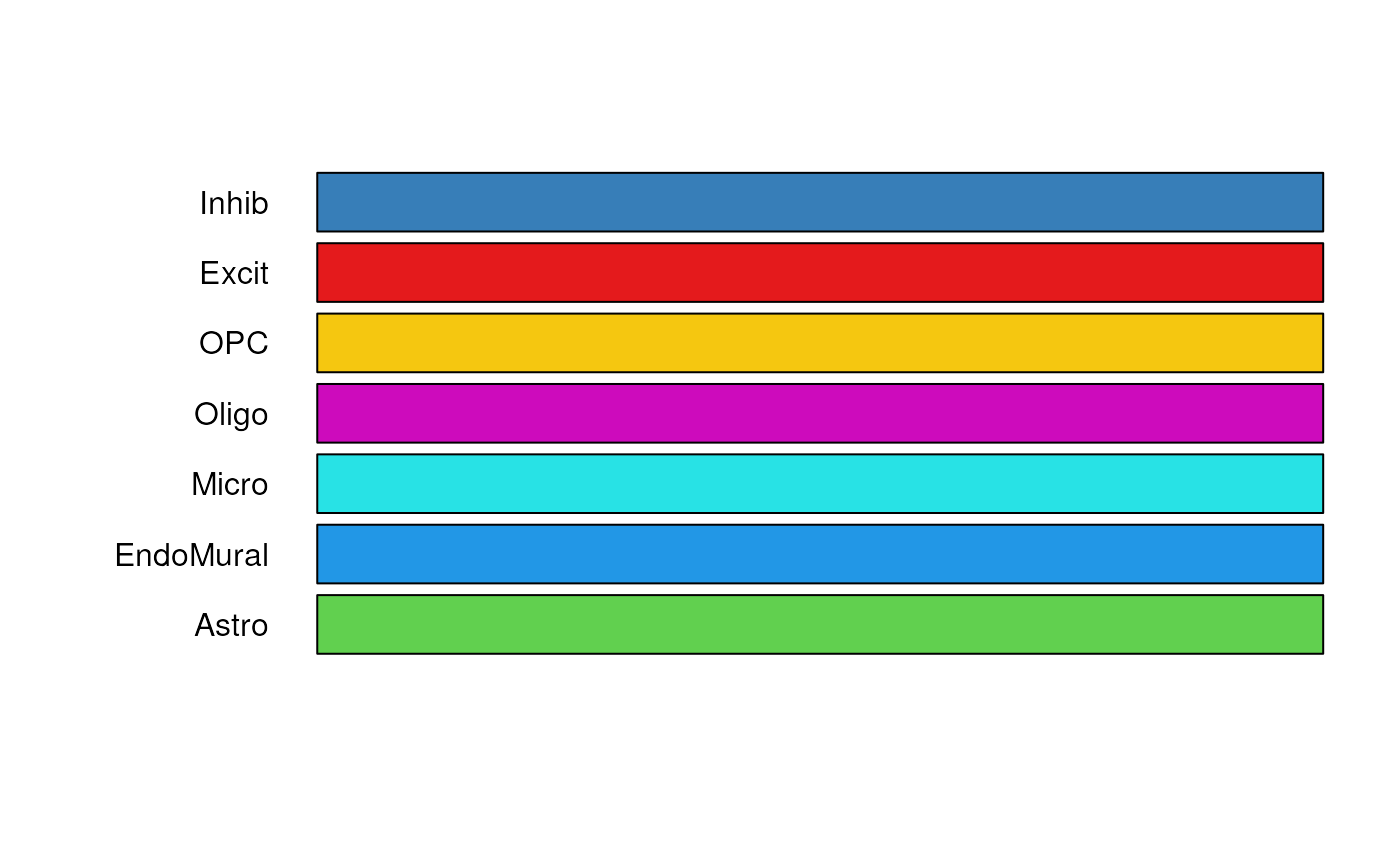
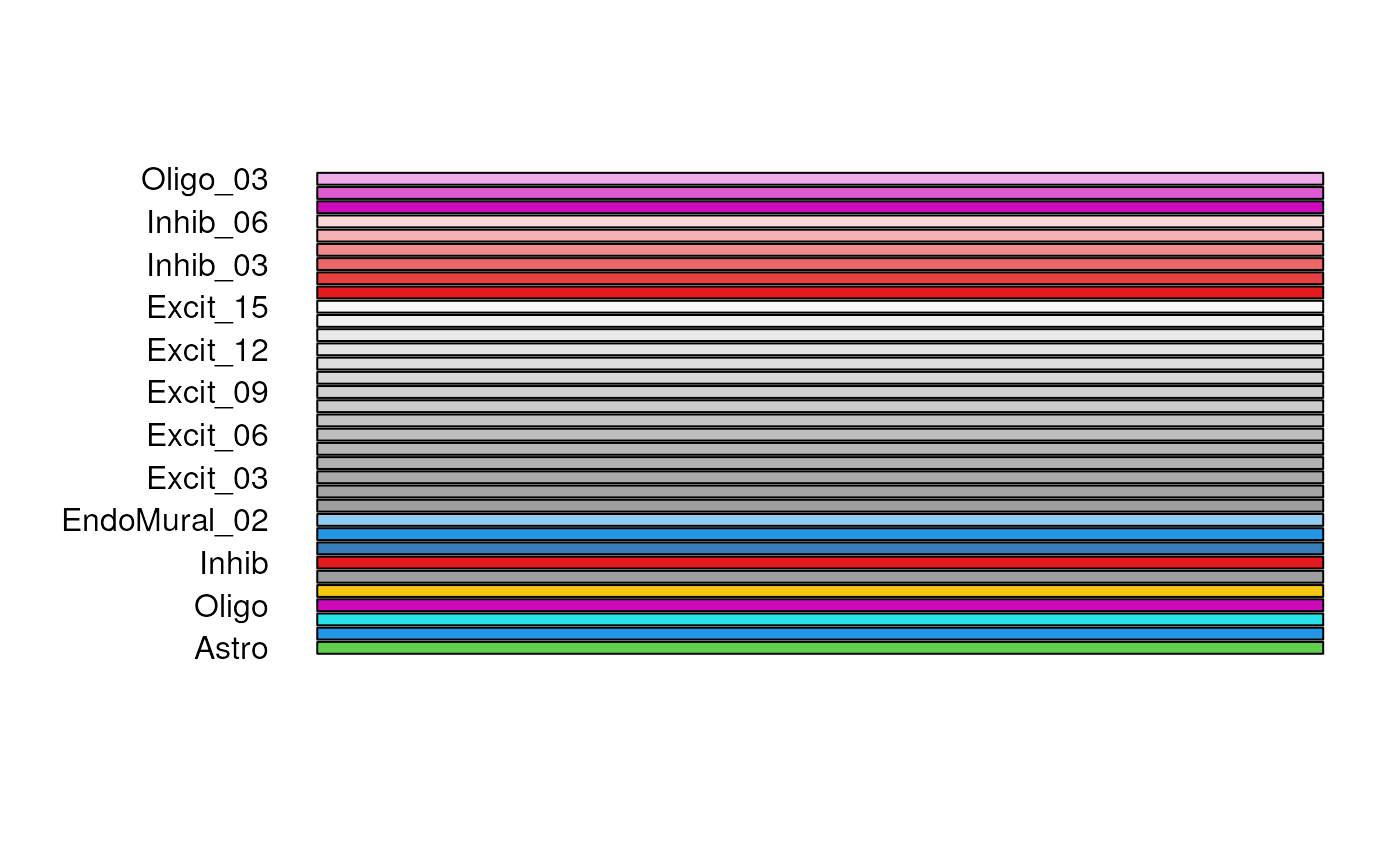
Deploying to gh-pages from @ LieberInstitute/DeconvoBuddies@7eb1b4eab2e5a7b147b6914d630d3a1765fab6ba 🚀

diff --git a/articles/DeconvoBuddies.html b/articles/DeconvoBuddies.html
@@ -211,20 +211,46 @@ the Human DLPFC (Huuki-Myers, Montgomery, Kwon, Cinquemani, Eagles,
 Gonzalez-Padilla, Maden, Kleinman, Hyde, Hicks, Maynard, and
 Collado-Torres, 2024).</p>
 <ul>
-<li><p><code>rse_gene</code>: 110 samples of bulk RNA-seq. [21745 genes
-x 110 samples].</p></li>
-<li><p><code>sce</code> : snRNA-seq data from the Human DLPFC.</p></li>
+<li><p><code>rse_gene</code>: 110 samples of bulk RNA-seq. [110 bulk
+RNA-seq samples x 21k genes] (41 MB).</p></li>
+<li><p><code>sce</code> : snRNA-seq data from the Human DLPFC. [77k
+nuclei x 36k genes] (172 MB)</p></li>
 <li><p><code>sce_DLPFC_example</code>: Sub-set of <code>sce</code>
-useful for testing. [557 genes x 10000 nuclei]</p></li>
+useful for testing. [10k nuclei x 557 genes] (49 MB)</p></li>
 </ul>
 <div class="sourceCode" id="cb4"><pre class="downlit sourceCode r">
-<code class="sourceCode R"><span><span class="co">## Single cell example data</span></span>
+<code class="sourceCode R"><span><span class="co">## Access and explore Single cell example data</span></span>
 <span><span class="kw">if</span> <span class="op">(</span><span class="op">!</span><span class="fu"><a href="https://rdrr.io/r/base/exists.html" class="external-link">exists</a></span><span class="op">(</span><span class="st">"sce_DLPFC_example"</span><span class="op">)</span><span class="op">)</span> <span class="va">sce_DLPFC_example</span> <span class="op">&lt;-</span> <span class="fu"><a href="../reference/fetch_deconvo_data.html">fetch_deconvo_data</a></span><span class="op">(</span><span class="st">"sce_DLPFC_example"</span><span class="op">)</span></span>
-<span><span class="co">#&gt; 2024-08-06 19:56:34.602448 loading file /github/home/.cache/R/BiocFileCache/3f715646e52_sce_DLPFC_example.Rdata%3Frlkey%3Dv3z4u8ru0d2y12zgdl1az07q9%26st%3D1dcfqc1i%26dl%3D1</span></span>
+<span><span class="co">#&gt; 2024-08-06 21:48:39.671245 loading file /github/home/.cache/R/BiocFileCache/3f6388747d_sce_DLPFC_example.Rdata%3Frlkey%3Dv3z4u8ru0d2y12zgdl1az07q9%26st%3D1dcfqc1i%26dl%3D1</span></span>
+<span><span class="va">sce_DLPFC_example</span></span>
+<span><span class="co">#&gt; class: SingleCellExperiment </span></span>
+<span><span class="co">#&gt; dim: 557 10000 </span></span>
+<span><span class="co">#&gt; metadata(3): Samples cell_type_colors cell_type_colors_broad</span></span>
+<span><span class="co">#&gt; assays(1): logcounts</span></span>
+<span><span class="co">#&gt; rownames(557): GABRD PRDM16 ... AFF2 MAMLD1</span></span>
+<span><span class="co">#&gt; rowData names(7): source type ... gene_type binomial_deviance</span></span>
+<span><span class="co">#&gt; colnames(10000): 8_AGTGACTGTAGTTACC-1 17_GCAGCCAGTGAGTCAG-1 ...</span></span>
+<span><span class="co">#&gt;   12_GGACGTCTCTGACAGT-1 1_GGTTAACTCTCTCTAA-1</span></span>
+<span><span class="co">#&gt; colData names(32): Sample Barcode ... cellType_layer layer_annotation</span></span>
+<span><span class="co">#&gt; reducedDimNames(0):</span></span>
+<span><span class="co">#&gt; mainExpName: NULL</span></span>
+<span><span class="co">#&gt; altExpNames(0):</span></span>
 <span></span>
-<span><span class="co">## Bulk RNA-seq data</span></span>
+<span><span class="co">## Access and explore Bulk RNA-seq data</span></span>
 <span><span class="kw">if</span> <span class="op">(</span><span class="op">!</span><span class="fu"><a href="https://rdrr.io/r/base/exists.html" class="external-link">exists</a></span><span class="op">(</span><span class="st">"rse_gene"</span><span class="op">)</span><span class="op">)</span> <span class="va">rse_gene</span> <span class="op">&lt;-</span> <span class="fu"><a href="../reference/fetch_deconvo_data.html">fetch_deconvo_data</a></span><span class="op">(</span><span class="st">"rse_gene"</span><span class="op">)</span></span>
-<span><span class="co">#&gt; 2024-08-06 19:56:36.568963 loading file /github/home/.cache/R/BiocFileCache/3f75afdd7e1_rse_gene.Rdata%3Frlkey%3Dsw2djr71y954yw4o3xrmjv59b%26dl%3D1</span></span></code></pre></div>
+<span><span class="co">#&gt; 2024-08-06 21:48:41.489403 loading file /github/home/.cache/R/BiocFileCache/3f619c595d4_rse_gene.Rdata%3Frlkey%3Dsw2djr71y954yw4o3xrmjv59b%26dl%3D1</span></span>
+<span><span class="va">rse_gene</span></span>
+<span><span class="co">#&gt; class: RangedSummarizedExperiment </span></span>
+<span><span class="co">#&gt; dim: 21745 110 </span></span>
+<span><span class="co">#&gt; metadata(1): SPEAQeasy_settings</span></span>
+<span><span class="co">#&gt; assays(2): counts logcounts</span></span>
+<span><span class="co">#&gt; rownames(21745): ENSG00000227232.5 ENSG00000278267.1 ...</span></span>
+<span><span class="co">#&gt;   ENSG00000210195.2 ENSG00000210196.2</span></span>
+<span><span class="co">#&gt; rowData names(11): Length gencodeID ... gencodeTx passExprsCut</span></span>
+<span><span class="co">#&gt; colnames(110): 2107UNHS-0291_Br2720_Mid_Bulk</span></span>
+<span><span class="co">#&gt;   2107UNHS-0291_Br2720_Mid_Cyto ... AN00000906_Br8667_Mid_Cyto</span></span>
+<span><span class="co">#&gt;   AN00000906_Br8667_Mid_Nuc</span></span>
+<span><span class="co">#&gt; colData names(80): SAMPLE_ID Sample ... diagnosis qc_class</span></span></code></pre></div>
 </div>
 <div class="section level3">
 <h3 id="marker-finding">Marker Finding<a class="anchor" aria-label="anchor" href="#marker-finding"></a>
@@ -240,7 +266,13 @@ type, where
 These values can be calculated for a single cell RNA-seq dataset using
 <code>get_mean_ratio2()</code>.</p>
 <div class="sourceCode" id="cb5"><pre class="downlit sourceCode r">
-<code class="sourceCode R"><span><span class="va">marker_stats</span> <span class="op">&lt;-</span> <span class="fu"><a href="../reference/get_mean_ratio.html">get_mean_ratio</a></span><span class="op">(</span><span class="va">sce_DLPFC_example</span>, cellType_col <span class="op">=</span> <span class="st">"cellType_broad_hc"</span>, gene_name <span class="op">=</span> <span class="st">"gene_name"</span>, gene_ensembl <span class="op">=</span> <span class="st">"gene_id"</span><span class="op">)</span></span>
+<code class="sourceCode R"><span><span class="co">## find marker genes with get_mean_ratio</span></span>
+<span><span class="va">marker_stats</span> <span class="op">&lt;-</span> <span class="fu"><a href="../reference/get_mean_ratio.html">get_mean_ratio</a></span><span class="op">(</span><span class="va">sce_DLPFC_example</span>,</span>
+<span>                               cellType_col <span class="op">=</span> <span class="st">"cellType_broad_hc"</span>, </span>
+<span>                               gene_name <span class="op">=</span> <span class="st">"gene_name"</span>, </span>
+<span>                               gene_ensembl <span class="op">=</span> <span class="st">"gene_id"</span><span class="op">)</span></span>
+<span></span>
+<span><span class="co">## explore tibble output, gene with high MeanRatio values are good marker genes</span></span>
 <span><span class="va">marker_stats</span></span>
 <span><span class="co">#&gt; <span style="color: #949494;"># A tibble: 762 × 10</span></span></span>
 <span><span class="co">#&gt;    gene       cellType.target mean.target cellType.2nd mean.2nd MeanRatio</span></span>
@@ -272,12 +304,15 @@ different plots. The function <code><a href="../reference/create_cell_colors.htm
 a named vector of hex values, corresponding to the names of cell types.
 This list is compatible with functions like
 <code><a href="https://ggplot2.tidyverse.org/reference/scale_manual.html" class="external-link">ggplot2::scale_color_manual()</a></code>.</p>
-<p>There are three pallets to choose from to generate colors:<br>
-* “classic” (default): Set1 from <code>RColorBrewer</code> - max 9
-colors<br>
-* “gg”: Equi-distant hues, same process for selecting colors as
-<code>ggplot</code> - no maximum number<br>
-* “tableau”: tableau20 color set (TODO cite this) - max 20 colors</p>
+<p>There are three pallets to choose from to generate colors:</p>
+<ul>
+<li><p>“classic” (default): Set1 from <code>RColorBrewer</code> - max 9
+colors</p></li>
+<li><p>“gg”: Equi-distant hues, same process for selecting colors as
+<code>ggplot</code> - no maximum number</p></li>
+<li><p>“tableau”: tableau20 color set (TODO cite this) - max 20
+colors</p></li>
+</ul>
 <div class="sourceCode" id="cb6"><pre class="downlit sourceCode r">
 <code class="sourceCode R"><span><span class="va">test_cell_types</span> <span class="op">&lt;-</span> <span class="fu"><a href="https://rdrr.io/r/base/c.html" class="external-link">c</a></span><span class="op">(</span><span class="st">"cell_A"</span>, <span class="st">"cell_B"</span>, <span class="st">"cell_C"</span>, <span class="st">"cell_D"</span>, <span class="st">"cell_E"</span><span class="op">)</span></span>
 <span></span>
@@ -299,12 +334,12 @@ colors<br>
 helps expand on the maximum number of colors and makes your pallet
 flexible when considering different ‘resolutions’ of cell types.</p>
 <div class="sourceCode" id="cb10"><pre class="downlit sourceCode r">
-<code class="sourceCode R"><span><span class="va">my_cell_types</span> <span class="op">&lt;-</span> <span class="fu"><a href="https://rdrr.io/r/base/levels.html" class="external-link">levels</a></span><span class="op">(</span><span class="va">sce_DLPFC_example</span><span class="op">$</span><span class="va">cellType_broad_hc</span><span class="op">)</span></span>
+<code class="sourceCode R"><span><span class="va">my_cell_types</span> <span class="op">&lt;-</span> <span class="fu"><a href="https://rdrr.io/r/base/levels.html" class="external-link">levels</a></span><span class="op">(</span><span class="va">sce_DLPFC_example</span><span class="op">$</span><span class="va">cellType_hc</span><span class="op">)</span></span>
 <span><span class="va">my_cell_colors</span> <span class="op">&lt;-</span> <span class="fu"><a href="../reference/create_cell_colors.html">create_cell_colors</a></span><span class="op">(</span></span>
 <span>    cell_types <span class="op">=</span> <span class="va">my_cell_types</span>,</span>
 <span>    pallet <span class="op">=</span> <span class="st">"classic"</span>,</span>
 <span>    preview <span class="op">=</span> <span class="cn">TRUE</span>,</span>
-<span>    split <span class="op">=</span> <span class="st">"\\."</span></span>
+<span>    split <span class="op">=</span> <span class="st">"_"</span></span>
 <span><span class="op">)</span></span></code></pre></div>
 <p><img src="DeconvoBuddies_files/figure-html/create_cell_colors%20demo%202%60-1.png" width="700"></p>
 </div>
@@ -337,16 +372,18 @@ violin plots of expression over cell type.</p>
 <p>Visualize deconvolution results with a stacked barplot showing the
 average cell type proportion for a group.</p>
 <div class="sourceCode" id="cb12"><pre class="downlit sourceCode r">
-<code class="sourceCode R"><span><span class="va">pd</span> <span class="op">&lt;-</span> <span class="fu"><a href="https://rdrr.io/pkg/SummarizedExperiment/man/SummarizedExperiment-class.html" class="external-link">colData</a></span><span class="op">(</span><span class="va">rse_bulk_test</span><span class="op">)</span> <span class="op">|&gt;</span></span>
+<code class="sourceCode R"><span><span class="co"># access the colData of a test rse dataset</span></span>
+<span><span class="va">pd</span> <span class="op">&lt;-</span> <span class="fu"><a href="https://rdrr.io/pkg/SummarizedExperiment/man/SummarizedExperiment-class.html" class="external-link">colData</a></span><span class="op">(</span><span class="va">rse_bulk_test</span><span class="op">)</span> <span class="op">|&gt;</span></span>
 <span>    <span class="fu"><a href="https://rdrr.io/r/base/as.data.frame.html" class="external-link">as.data.frame</a></span><span class="op">(</span><span class="op">)</span></span>
 <span></span>
-<span><span class="co">## need to pivot data to long format</span></span>
+<span><span class="co">## pivot data to long format and join with test estimated proportion data</span></span>
 <span><span class="va">est_prop_long</span> <span class="op">&lt;-</span> <span class="va">est_prop</span> <span class="op">|&gt;</span></span>
 <span>    <span class="fu"><a href="https://tibble.tidyverse.org/reference/rownames.html" class="external-link">rownames_to_column</a></span><span class="op">(</span><span class="st">"RNum"</span><span class="op">)</span> <span class="op">|&gt;</span></span>
 <span>    <span class="fu"><a href="https://tidyr.tidyverse.org/reference/pivot_longer.html" class="external-link">pivot_longer</a></span><span class="op">(</span><span class="op">!</span><span class="va">RNum</span>, names_to <span class="op">=</span> <span class="st">"cell_type"</span>, values_to <span class="op">=</span> <span class="st">"prop"</span><span class="op">)</span> <span class="op">|&gt;</span></span>
 <span>    <span class="fu"><a href="https://dplyr.tidyverse.org/reference/mutate-joins.html" class="external-link">left_join</a></span><span class="op">(</span><span class="va">pd</span> <span class="op">|&gt;</span> <span class="fu">dplyr</span><span class="fu">::</span><span class="fu"><a href="https://dplyr.tidyverse.org/reference/select.html" class="external-link">select</a></span><span class="op">(</span><span class="va">RNum</span>, <span class="va">Dx</span><span class="op">)</span><span class="op">)</span></span>
 <span><span class="co">#&gt; Joining with `by = join_by(RNum)`</span></span>
 <span></span>
+<span><span class="co">## explore est_prop_long</span></span>
 <span><span class="va">est_prop_long</span></span>
 <span><span class="co">#&gt; <span style="color: #949494;"># A tibble: 500 × 4</span></span></span>
 <span><span class="co">#&gt;    RNum  cell_type   prop Dx   </span></span>
@@ -363,6 +400,7 @@ average cell type proportion for a group.</p>
 <span><span class="co">#&gt; <span style="color: #BCBCBC;">10</span> R632  cell_E    0.060<span style="text-decoration: underline;">0</span> <span style="color: #BB0000;">NA</span>   </span></span>
 <span><span class="co">#&gt; <span style="color: #949494;"># ℹ 490 more rows</span></span></span>
 <span></span>
+<span><span class="co">## the composition bar plot shows the average cell type composition for each Dx</span></span>
 <span><span class="fu"><a href="../reference/plot_composition_bar.html">plot_composition_bar</a></span><span class="op">(</span><span class="va">est_prop_long</span>, x_col <span class="op">=</span> <span class="st">"Dx"</span><span class="op">)</span> <span class="op">+</span></span>
 <span>    <span class="fu">ggplot2</span><span class="fu">::</span><span class="fu"><a href="https://ggplot2.tidyverse.org/reference/scale_manual.html" class="external-link">scale_fill_manual</a></span><span class="op">(</span>values <span class="op">=</span> <span class="va">test_cell_colors_classic</span><span class="op">)</span></span></code></pre></div>
 <p><img src="DeconvoBuddies_files/figure-html/%60demo%20plot_composition_bar%60-1.png" width="700"></p>
@@ -408,9 +446,9 @@ Cheng, Chang, and Iannone, 2024)</li>
 <span><span class="kw"><a href="https://rdrr.io/r/base/library.html" class="external-link">library</a></span><span class="op">(</span><span class="st"><a href="https://yihui.org/knitr/" class="external-link">"knitr"</a></span><span class="op">)</span></span>
 <span><span class="fu"><a href="https://rdrr.io/pkg/knitr/man/knit.html" class="external-link">knit</a></span><span class="op">(</span><span class="st">"DeconvoBuddies.Rmd"</span>, tangle <span class="op">=</span> <span class="cn">TRUE</span><span class="op">)</span></span></code></pre></div>
 <p>Date the vignette was generated.</p>
-<pre><code><span><span class="co">#&gt; [1] "2024-08-06 19:56:40 UTC"</span></span></code></pre>
+<pre><code><span><span class="co">#&gt; [1] "2024-08-06 21:48:45 UTC"</span></span></code></pre>
 <p>Wallclock time spent generating the vignette.</p>
-<pre><code><span><span class="co">#&gt; Time difference of 18.203 secs</span></span></code></pre>
+<pre><code><span><span class="co">#&gt; Time difference of 18.286 secs</span></span></code></pre>
 <p><code>R</code> session information.</p>
 <pre><code><span><span class="co">#&gt; <span style="color: #00BBBB; font-weight: bold;">─ Session info ───────────────────────────────────────────────────────────────────────────────────────────────────────</span></span></span>
 <span><span class="co">#&gt;  <span style="color: #555555; font-style: italic;">setting </span> <span style="color: #555555; font-style: italic;">value</span></span></span>

diff --git a/articles/Deconvolution_Benchmark_DLPFC.html b/articles/Deconvolution_Benchmark_DLPFC.html
@@ -261,7 +261,7 @@ Total, Nuc), post quality control n=110 samples.</p>
 <div class="sourceCode" id="cb3"><pre class="downlit sourceCode r">
 <code class="sourceCode R"><span><span class="co">## use fetch deconvon data to load rse_gene</span></span>
 <span><span class="va">rse_gene</span> <span class="op">&lt;-</span> <span class="fu"><a href="../reference/fetch_deconvo_data.html">fetch_deconvo_data</a></span><span class="op">(</span><span class="st">"rse_gene"</span><span class="op">)</span></span>
-<span><span class="co">#&gt; 2024-08-06 19:56:56.852831 loading file /github/home/.cache/R/BiocFileCache/3f75afdd7e1_rse_gene.Rdata%3Frlkey%3Dsw2djr71y954yw4o3xrmjv59b%26dl%3D1</span></span>
+<span><span class="co">#&gt; 2024-08-06 21:49:01.191113 loading file /github/home/.cache/R/BiocFileCache/3f619c595d4_rse_gene.Rdata%3Frlkey%3Dsw2djr71y954yw4o3xrmjv59b%26dl%3D1</span></span>
 <span><span class="va">rse_gene</span></span>
 <span><span class="co">#&gt; class: RangedSummarizedExperiment </span></span>
 <span><span class="co">#&gt; dim: 21745 110 </span></span>
@@ -297,7 +297,7 @@ Total, Nuc), post quality control n=110 samples.</p>
 <div class="sourceCode" id="cb4"><pre class="downlit sourceCode r">
 <code class="sourceCode R"><span><span class="co">## Use spatialLIBD to fetch the snRNA-seq dataset</span></span>
 <span><span class="va">sce_path_zip</span> <span class="op">&lt;-</span> <span class="fu"><a href="../reference/fetch_deconvo_data.html">fetch_deconvo_data</a></span><span class="op">(</span><span class="st">"sce"</span><span class="op">)</span></span>
-<span><span class="co">#&gt; 2024-08-06 19:56:59.166346 loading file /github/home/.cache/R/BiocFileCache/3f721f411_sce_DLPFC_annotated.zip%3Fdl%3D1</span></span>
+<span><span class="co">#&gt; 2024-08-06 21:49:03.778689 loading file /github/home/.cache/R/BiocFileCache/3f673eb669d_sce_DLPFC_annotated.zip%3Fdl%3D1</span></span>
 <span></span>
 <span><span class="co">## unzip and load the data</span></span>
 <span><span class="va">sce_path</span> <span class="op">&lt;-</span> <span class="fu"><a href="https://rdrr.io/r/utils/unzip.html" class="external-link">unzip</a></span><span class="op">(</span><span class="va">sce_path_zip</span>, exdir <span class="op">=</span> <span class="fu"><a href="https://rdrr.io/r/base/tempfile.html" class="external-link">tempdir</a></span><span class="op">(</span><span class="op">)</span><span class="op">)</span></span>
@@ -762,9 +762,9 @@ Cheng, Chang, and Iannone, 2024)</li>
 <span><span class="kw"><a href="https://rdrr.io/r/base/library.html" class="external-link">library</a></span><span class="op">(</span><span class="st"><a href="https://yihui.org/knitr/" class="external-link">"knitr"</a></span><span class="op">)</span></span>
 <span><span class="fu"><a href="https://rdrr.io/pkg/knitr/man/knit.html" class="external-link">knit</a></span><span class="op">(</span><span class="st">"Deconvolution_Benchmark_DLPFC.Rmd"</span>, tangle <span class="op">=</span> <span class="cn">TRUE</span><span class="op">)</span></span></code></pre></div>
 <p>Date the vignette was generated.</p>
-<pre><code><span><span class="co">#&gt; [1] "2024-08-06 19:57:56 UTC"</span></span></code></pre>
+<pre><code><span><span class="co">#&gt; [1] "2024-08-06 21:50:05 UTC"</span></span></code></pre>
 <p>Wallclock time spent generating the vignette.</p>
-<pre><code><span><span class="co">#&gt; Time difference of 1.197 mins</span></span></code></pre>
+<pre><code><span><span class="co">#&gt; Time difference of 1.277 mins</span></span></code></pre>
 <p><code>R</code> session information.</p>
 <pre><code><span><span class="co">#&gt; <span style="color: #00BBBB; font-weight: bold;">─ Session info ───────────────────────────────────────────────────────────────────────────────────────────────────────</span></span></span>
 <span><span class="co">#&gt;  <span style="color: #555555; font-style: italic;">setting </span> <span style="color: #555555; font-style: italic;">value</span></span></span>

diff --git a/reference/fetch_deconvo_data.html b/reference/fetch_deconvo_data.html
@@ -132,7 +132,7 @@ the preferred way to interact with the data.</p>
 <span class="r-in"><span><span class="co">## A RangedSummarizedExperiment (41.16 MB)</span></span></span>
 <span class="r-in"><span></span></span>
 <span class="r-in"><span><span class="kw">if</span> <span class="op">(</span><span class="op">!</span><span class="fu"><a href="https://rdrr.io/r/base/exists.html" class="external-link">exists</a></span><span class="op">(</span><span class="st">"rse-gene"</span><span class="op">)</span><span class="op">)</span> <span class="va">rse_gene</span> <span class="op">&lt;-</span> <span class="fu">fetch_deconvo_data</span><span class="op">(</span><span class="st">"rse_gene"</span><span class="op">)</span></span></span>
-<span class="r-msg co"><span class="r-pr">#&gt;</span> 2024-08-06 19:55:43.549969 loading file /github/home/.cache/R/BiocFileCache/3f75afdd7e1_rse_gene.Rdata%3Frlkey%3Dsw2djr71y954yw4o3xrmjv59b%26dl%3D1</span>
+<span class="r-msg co"><span class="r-pr">#&gt;</span> 2024-08-06 21:47:50.593281 loading file /github/home/.cache/R/BiocFileCache/3f619c595d4_rse_gene.Rdata%3Frlkey%3Dsw2djr71y954yw4o3xrmjv59b%26dl%3D1</span>
 <span class="r-in"><span></span></span>
 <span class="r-in"><span><span class="co">## explore data</span></span></span>
 <span class="r-in"><span><span class="va">rse_gene</span></span></span>
@@ -160,7 +160,7 @@ the preferred way to interact with the data.</p>
 <span class="r-in"><span><span class="co">## load example snRNA-seq data</span></span></span>
 <span class="r-in"><span><span class="co">## A SingleCellExperiment (4.79 MB)</span></span></span>
 <span class="r-in"><span><span class="kw">if</span> <span class="op">(</span><span class="op">!</span><span class="fu"><a href="https://rdrr.io/r/base/exists.html" class="external-link">exists</a></span><span class="op">(</span><span class="st">"sce_DLPFC_example"</span><span class="op">)</span><span class="op">)</span> <span class="va">sce_DLPFC_example</span> <span class="op">&lt;-</span> <span class="fu">fetch_deconvo_data</span><span class="op">(</span><span class="st">"sce_DLPFC_example"</span><span class="op">)</span></span></span>
-<span class="r-msg co"><span class="r-pr">#&gt;</span> 2024-08-06 19:55:44.874238 loading file /github/home/.cache/R/BiocFileCache/3f715646e52_sce_DLPFC_example.Rdata%3Frlkey%3Dv3z4u8ru0d2y12zgdl1az07q9%26st%3D1dcfqc1i%26dl%3D1</span>
+<span class="r-msg co"><span class="r-pr">#&gt;</span> 2024-08-06 21:47:51.618848 loading file /github/home/.cache/R/BiocFileCache/3f6388747d_sce_DLPFC_example.Rdata%3Frlkey%3Dv3z4u8ru0d2y12zgdl1az07q9%26st%3D1dcfqc1i%26dl%3D1</span>
 <span class="r-in"><span></span></span>
 <span class="r-in"><span></span></span>
 <span class="r-in"><span><span class="va">sce_DLPFC_example</span></span></span>

diff --git a/reference/plot_marker_express_List.html b/reference/plot_marker_express_List.html
@@ -134,7 +134,7 @@ defaults to <code>FALSE</code> as these often become over plotted and quite larg
     <h2>Examples</h2>
     <div class="sourceCode"><pre class="sourceCode r"><code><span class="r-in"><span><span class="co">## Fetch sce example data</span></span></span>
 <span class="r-in"><span><span class="kw">if</span> <span class="op">(</span><span class="op">!</span><span class="fu"><a href="https://rdrr.io/r/base/exists.html" class="external-link">exists</a></span><span class="op">(</span><span class="st">"sce_DLPFC_example"</span><span class="op">)</span><span class="op">)</span> <span class="va">sce_DLPFC_example</span> <span class="op">&lt;-</span> <span class="fu"><a href="fetch_deconvo_data.html">fetch_deconvo_data</a></span><span class="op">(</span><span class="st">"sce_DLPFC_example"</span><span class="op">)</span></span></span>
-<span class="r-msg co"><span class="r-pr">#&gt;</span> 2024-08-06 19:56:18.158438 loading file /github/home/.cache/R/BiocFileCache/3f715646e52_sce_DLPFC_example.Rdata%3Frlkey%3Dv3z4u8ru0d2y12zgdl1az07q9%26st%3D1dcfqc1i%26dl%3D1</span>
+<span class="r-msg co"><span class="r-pr">#&gt;</span> 2024-08-06 21:48:23.642591 loading file /github/home/.cache/R/BiocFileCache/3f6388747d_sce_DLPFC_example.Rdata%3Frlkey%3Dv3z4u8ru0d2y12zgdl1az07q9%26st%3D1dcfqc1i%26dl%3D1</span>
 <span class="r-in"><span></span></span>
 <span class="r-in"><span><span class="co">## Create list-of-lists of genes to plot, names of sub-list become title of page</span></span></span>
 <span class="r-in"><span><span class="va">my_gene_list</span> <span class="op">&lt;-</span> <span class="fu"><a href="https://rdrr.io/r/base/list.html" class="external-link">list</a></span><span class="op">(</span>Inhib <span class="op">=</span> <span class="fu"><a href="https://rdrr.io/r/base/c.html" class="external-link">c</a></span><span class="op">(</span><span class="st">"GAD2"</span>, <span class="st">"SAMD5"</span><span class="op">)</span>, Astro <span class="op">=</span> <span class="fu"><a href="https://rdrr.io/r/base/c.html" class="external-link">c</a></span><span class="op">(</span><span class="st">"RGS20"</span>, <span class="st">"PRDM16"</span><span class="op">)</span><span class="op">)</span></span></span>

diff --git a/reference/plot_gene_express.html b/reference/plot_gene_express.html
@@ -144,7 +144,7 @@ defaults to <code>FALSE</code> as these often become over plotted and quite larg
 <span class="r-plt img"><img src="plot_gene_express-1.png" alt="" width="700" height="433"></span>
 <span class="r-in"><span></span></span>
 <span class="r-in"><span><span class="kw">if</span> <span class="op">(</span><span class="op">!</span><span class="fu"><a href="https://rdrr.io/r/base/exists.html" class="external-link">exists</a></span><span class="op">(</span><span class="st">"sce_DLPFC_example"</span><span class="op">)</span><span class="op">)</span> <span class="va">sce_DLPFC_example</span> <span class="op">&lt;-</span> <span class="fu"><a href="fetch_deconvo_data.html">fetch_deconvo_data</a></span><span class="op">(</span><span class="st">"sce_DLPFC_example"</span><span class="op">)</span></span></span>
-<span class="r-msg co"><span class="r-pr">#&gt;</span> 2024-08-06 19:55:53.172213 loading file /github/home/.cache/R/BiocFileCache/3f715646e52_sce_DLPFC_example.Rdata%3Frlkey%3Dv3z4u8ru0d2y12zgdl1az07q9%26st%3D1dcfqc1i%26dl%3D1</span>
+<span class="r-msg co"><span class="r-pr">#&gt;</span> 2024-08-06 21:47:58.984649 loading file /github/home/.cache/R/BiocFileCache/3f6388747d_sce_DLPFC_example.Rdata%3Frlkey%3Dv3z4u8ru0d2y12zgdl1az07q9%26st%3D1dcfqc1i%26dl%3D1</span>
 <span class="r-in"><span><span class="co">## plot expression of two genes</span></span></span>
 <span class="r-in"><span><span class="fu">plot_gene_express</span><span class="op">(</span>sce <span class="op">=</span> <span class="va">sce_DLPFC_example</span>, category <span class="op">=</span> <span class="st">"cellType_broad_hc"</span>, genes <span class="op">=</span> <span class="fu"><a href="https://rdrr.io/r/base/c.html" class="external-link">c</a></span><span class="op">(</span><span class="st">"GAD2"</span>, <span class="st">"CD22"</span><span class="op">)</span><span class="op">)</span></span></span>
 <span class="r-msg co"><span class="r-pr">#&gt;</span> No summary function supplied, defaulting to `mean_se()`</span>

diff --git a/reference/plot_marker_express_ALL.html b/reference/plot_marker_express_ALL.html
@@ -153,7 +153,7 @@ all cell types</p>
     <h2>Examples</h2>
     <div class="sourceCode"><pre class="sourceCode r"><code><span class="r-in"><span><span class="co">#' ## Fetch sce example data</span></span></span>
 <span class="r-in"><span><span class="kw">if</span> <span class="op">(</span><span class="op">!</span><span class="fu"><a href="https://rdrr.io/r/base/exists.html" class="external-link">exists</a></span><span class="op">(</span><span class="st">"sce_DLPFC_example"</span><span class="op">)</span><span class="op">)</span> <span class="va">sce_DLPFC_example</span> <span class="op">&lt;-</span> <span class="fu"><a href="fetch_deconvo_data.html">fetch_deconvo_data</a></span><span class="op">(</span><span class="st">"sce_DLPFC_example"</span><span class="op">)</span></span></span>
-<span class="r-msg co"><span class="r-pr">#&gt;</span> 2024-08-06 19:56:00.774611 loading file /github/home/.cache/R/BiocFileCache/3f715646e52_sce_DLPFC_example.Rdata%3Frlkey%3Dv3z4u8ru0d2y12zgdl1az07q9%26st%3D1dcfqc1i%26dl%3D1</span>
+<span class="r-msg co"><span class="r-pr">#&gt;</span> 2024-08-06 21:48:06.334976 loading file /github/home/.cache/R/BiocFileCache/3f6388747d_sce_DLPFC_example.Rdata%3Frlkey%3Dv3z4u8ru0d2y12zgdl1az07q9%26st%3D1dcfqc1i%26dl%3D1</span>
 <span class="r-in"><span></span></span>
 <span class="r-in"><span><span class="co"># Plot marker gene expression to PDF, one page per cell type in stats</span></span></span>
 <span class="r-in"><span><span class="va">pdf_file</span> <span class="op">&lt;-</span> <span class="fu"><a href="https://rdrr.io/r/base/tempfile.html" class="external-link">tempfile</a></span><span class="op">(</span><span class="st">"test_marker_expression_ALL"</span>, fileext <span class="op">=</span> <span class="st">".pdf"</span><span class="op">)</span></span></span>

diff --git a/reference/dot-get_mean_ratio2.html b/reference/dot-get_mean_ratio2.html
@@ -117,7 +117,7 @@ it typically contains the normalized expression values.</p></dd>
     <h2>Examples</h2>
     <div class="sourceCode"><pre class="sourceCode r"><code><span class="r-in"><span><span class="co">#' ## load example SingleCellExperiment</span></span></span>
 <span class="r-in"><span><span class="kw">if</span> <span class="op">(</span><span class="op">!</span><span class="fu"><a href="https://rdrr.io/r/base/exists.html" class="external-link">exists</a></span><span class="op">(</span><span class="st">"sce_DLPFC_example"</span><span class="op">)</span><span class="op">)</span> <span class="va">sce_DLPFC_example</span> <span class="op">&lt;-</span> <span class="fu"><a href="fetch_deconvo_data.html">fetch_deconvo_data</a></span><span class="op">(</span><span class="st">"sce_DLPFC_example"</span><span class="op">)</span></span></span>
-<span class="r-msg co"><span class="r-pr">#&gt;</span> 2024-08-06 19:55:40.242888 loading file /github/home/.cache/R/BiocFileCache/3f715646e52_sce_DLPFC_example.Rdata%3Frlkey%3Dv3z4u8ru0d2y12zgdl1az07q9%26st%3D1dcfqc1i%26dl%3D1</span>
+<span class="r-msg co"><span class="r-pr">#&gt;</span> 2024-08-06 21:47:47.522964 loading file /github/home/.cache/R/BiocFileCache/3f6388747d_sce_DLPFC_example.Rdata%3Frlkey%3Dv3z4u8ru0d2y12zgdl1az07q9%26st%3D1dcfqc1i%26dl%3D1</span>
 <span class="r-in"><span></span></span>
 <span class="r-in"><span><span class="co">## Get the mean ratio for each gene for each cell type defined in `cellType_broad_hc`</span></span></span>
 <span class="r-in"><span><span class="fu">.get_mean_ratio2</span><span class="op">(</span><span class="va">sce_DLPFC_example</span>, cellType_col <span class="op">=</span> <span class="st">"cellType_broad_hc"</span><span class="op">)</span></span></span>

diff --git a/articles/Marker_Finding.html b/articles/Marker_Finding.html
@@ -245,9 +245,9 @@ Cheng, Chang, and Iannone, 2024)</li>
 <span><span class="kw"><a href="https://rdrr.io/r/base/library.html" class="external-link">library</a></span><span class="op">(</span><span class="st"><a href="https://yihui.org/knitr/" class="external-link">"knitr"</a></span><span class="op">)</span></span>
 <span><span class="fu"><a href="https://rdrr.io/pkg/knitr/man/knit.html" class="external-link">knit</a></span><span class="op">(</span><span class="st">"Marker_Finding.Rmd"</span>, tangle <span class="op">=</span> <span class="cn">TRUE</span><span class="op">)</span></span></code></pre></div>
 <p>Date the vignette was generated.</p>
-<pre><code><span><span class="co">#&gt; [1] "2024-08-06 19:58:12 UTC"</span></span></code></pre>
+<pre><code><span><span class="co">#&gt; [1] "2024-08-06 21:50:22 UTC"</span></span></code></pre>
 <p>Wallclock time spent generating the vignette.</p>
-<pre><code><span><span class="co">#&gt; Time difference of 10.245 secs</span></span></code></pre>
+<pre><code><span><span class="co">#&gt; Time difference of 10.428 secs</span></span></code></pre>
 <p><code>R</code> session information.</p>
 <pre><code><span><span class="co">#&gt; <span style="color: #00BBBB; font-weight: bold;">─ Session info ───────────────────────────────────────────────────────────────────────────────────────────────────────</span></span></span>
 <span><span class="co">#&gt;  <span style="color: #555555; font-style: italic;">setting </span> <span style="color: #555555; font-style: italic;">value</span></span></span>

diff --git a/reference/plot_marker_express.html b/reference/plot_marker_express.html
@@ -155,7 +155,7 @@ defaults to <code>FALSE</code> as these often become overplotted and quite large
     <div id="ref-examples">
     <h2>Examples</h2>
     <div class="sourceCode"><pre class="sourceCode r"><code><span class="r-in"><span><span class="kw">if</span> <span class="op">(</span><span class="op">!</span><span class="fu"><a href="https://rdrr.io/r/base/exists.html" class="external-link">exists</a></span><span class="op">(</span><span class="st">"sce_DLPFC_example"</span><span class="op">)</span><span class="op">)</span> <span class="va">sce_DLPFC_example</span> <span class="op">&lt;-</span> <span class="fu"><a href="fetch_deconvo_data.html">fetch_deconvo_data</a></span><span class="op">(</span><span class="st">"sce_DLPFC_example"</span><span class="op">)</span></span></span>
-<span class="r-msg co"><span class="r-pr">#&gt;</span> 2024-08-06 19:55:57.527611 loading file /github/home/.cache/R/BiocFileCache/3f715646e52_sce_DLPFC_example.Rdata%3Frlkey%3Dv3z4u8ru0d2y12zgdl1az07q9%26st%3D1dcfqc1i%26dl%3D1</span>
+<span class="r-msg co"><span class="r-pr">#&gt;</span> 2024-08-06 21:48:03.259744 loading file /github/home/.cache/R/BiocFileCache/3f6388747d_sce_DLPFC_example.Rdata%3Frlkey%3Dv3z4u8ru0d2y12zgdl1az07q9%26st%3D1dcfqc1i%26dl%3D1</span>
 <span class="r-in"><span><span class="co">## plot the top markers for Astrocytes in</span></span></span>
 <span class="r-in"><span><span class="fu">plot_marker_express</span><span class="op">(</span></span></span>
 <span class="r-in"><span>    sce <span class="op">=</span> <span class="va">sce_DLPFC_example</span>,</span></span>

diff --git a/reference/get_mean_ratio.html b/reference/get_mean_ratio.html
@@ -133,7 +133,7 @@ column with the gene names (symbols).</p></dd>
     <h2>Examples</h2>
     <div class="sourceCode"><pre class="sourceCode r"><code><span class="r-in"><span><span class="co">## load example SingleCellExperiment</span></span></span>
 <span class="r-in"><span><span class="kw">if</span> <span class="op">(</span><span class="op">!</span><span class="fu"><a href="https://rdrr.io/r/base/exists.html" class="external-link">exists</a></span><span class="op">(</span><span class="st">"sce_DLPFC_example"</span><span class="op">)</span><span class="op">)</span> <span class="va">sce_DLPFC_example</span> <span class="op">&lt;-</span> <span class="fu"><a href="fetch_deconvo_data.html">fetch_deconvo_data</a></span><span class="op">(</span><span class="st">"sce_DLPFC_example"</span><span class="op">)</span></span></span>
-<span class="r-msg co"><span class="r-pr">#&gt;</span> 2024-08-06 19:55:48.750333 loading file /github/home/.cache/R/BiocFileCache/3f715646e52_sce_DLPFC_example.Rdata%3Frlkey%3Dv3z4u8ru0d2y12zgdl1az07q9%26st%3D1dcfqc1i%26dl%3D1</span>
+<span class="r-msg co"><span class="r-pr">#&gt;</span> 2024-08-06 21:47:54.913542 loading file /github/home/.cache/R/BiocFileCache/3f6388747d_sce_DLPFC_example.Rdata%3Frlkey%3Dv3z4u8ru0d2y12zgdl1az07q9%26st%3D1dcfqc1i%26dl%3D1</span>
 <span class="r-in"><span><span class="co">## Explore properties of the sce object</span></span></span>
 <span class="r-in"><span><span class="va">sce_DLPFC_example</span></span></span>
 <span class="r-out co"><span class="r-pr">#&gt;</span> class: SingleCellExperiment </span>

diff --git a/reference/findMarkers_1vAll.html b/reference/findMarkers_1vAll.html
@@ -117,9 +117,9 @@ function for scran::findMarkers</p>
     <div id="ref-examples">
     <h2>Examples</h2>
     <div class="sourceCode"><pre class="sourceCode r"><code><span class="r-in"><span><span class="va">markers_1vAll</span> <span class="op">&lt;-</span> <span class="fu">findMarkers_1vAll</span><span class="op">(</span><span class="va">sce_ab</span><span class="op">)</span></span></span>
-<span class="r-msg co"><span class="r-pr">#&gt;</span> A - '2024-08-06 19:55:45.882273</span>
-<span class="r-msg co"><span class="r-pr">#&gt;</span> B - '2024-08-06 19:55:46.893319</span>
-<span class="r-msg co"><span class="r-pr">#&gt;</span> Building Table - 2024-08-06 19:55:47.046532</span>
+<span class="r-msg co"><span class="r-pr">#&gt;</span> A - '2024-08-06 21:47:52.543064</span>
+<span class="r-msg co"><span class="r-pr">#&gt;</span> B - '2024-08-06 21:47:53.585568</span>
+<span class="r-msg co"><span class="r-pr">#&gt;</span> Building Table - 2024-08-06 21:47:53.734626</span>
 <span class="r-msg co"><span class="r-pr">#&gt;</span> ** Done! **</span>
 <span class="r-in"><span><span class="fu"><a href="https://rdrr.io/r/utils/head.html" class="external-link">head</a></span><span class="op">(</span><span class="va">markers_1vAll</span><span class="op">)</span></span></span>
 <span class="r-out co"><span class="r-pr">#&gt;</span> <span style="color: #949494;"># A tibble: 6 × 8</span></span>
